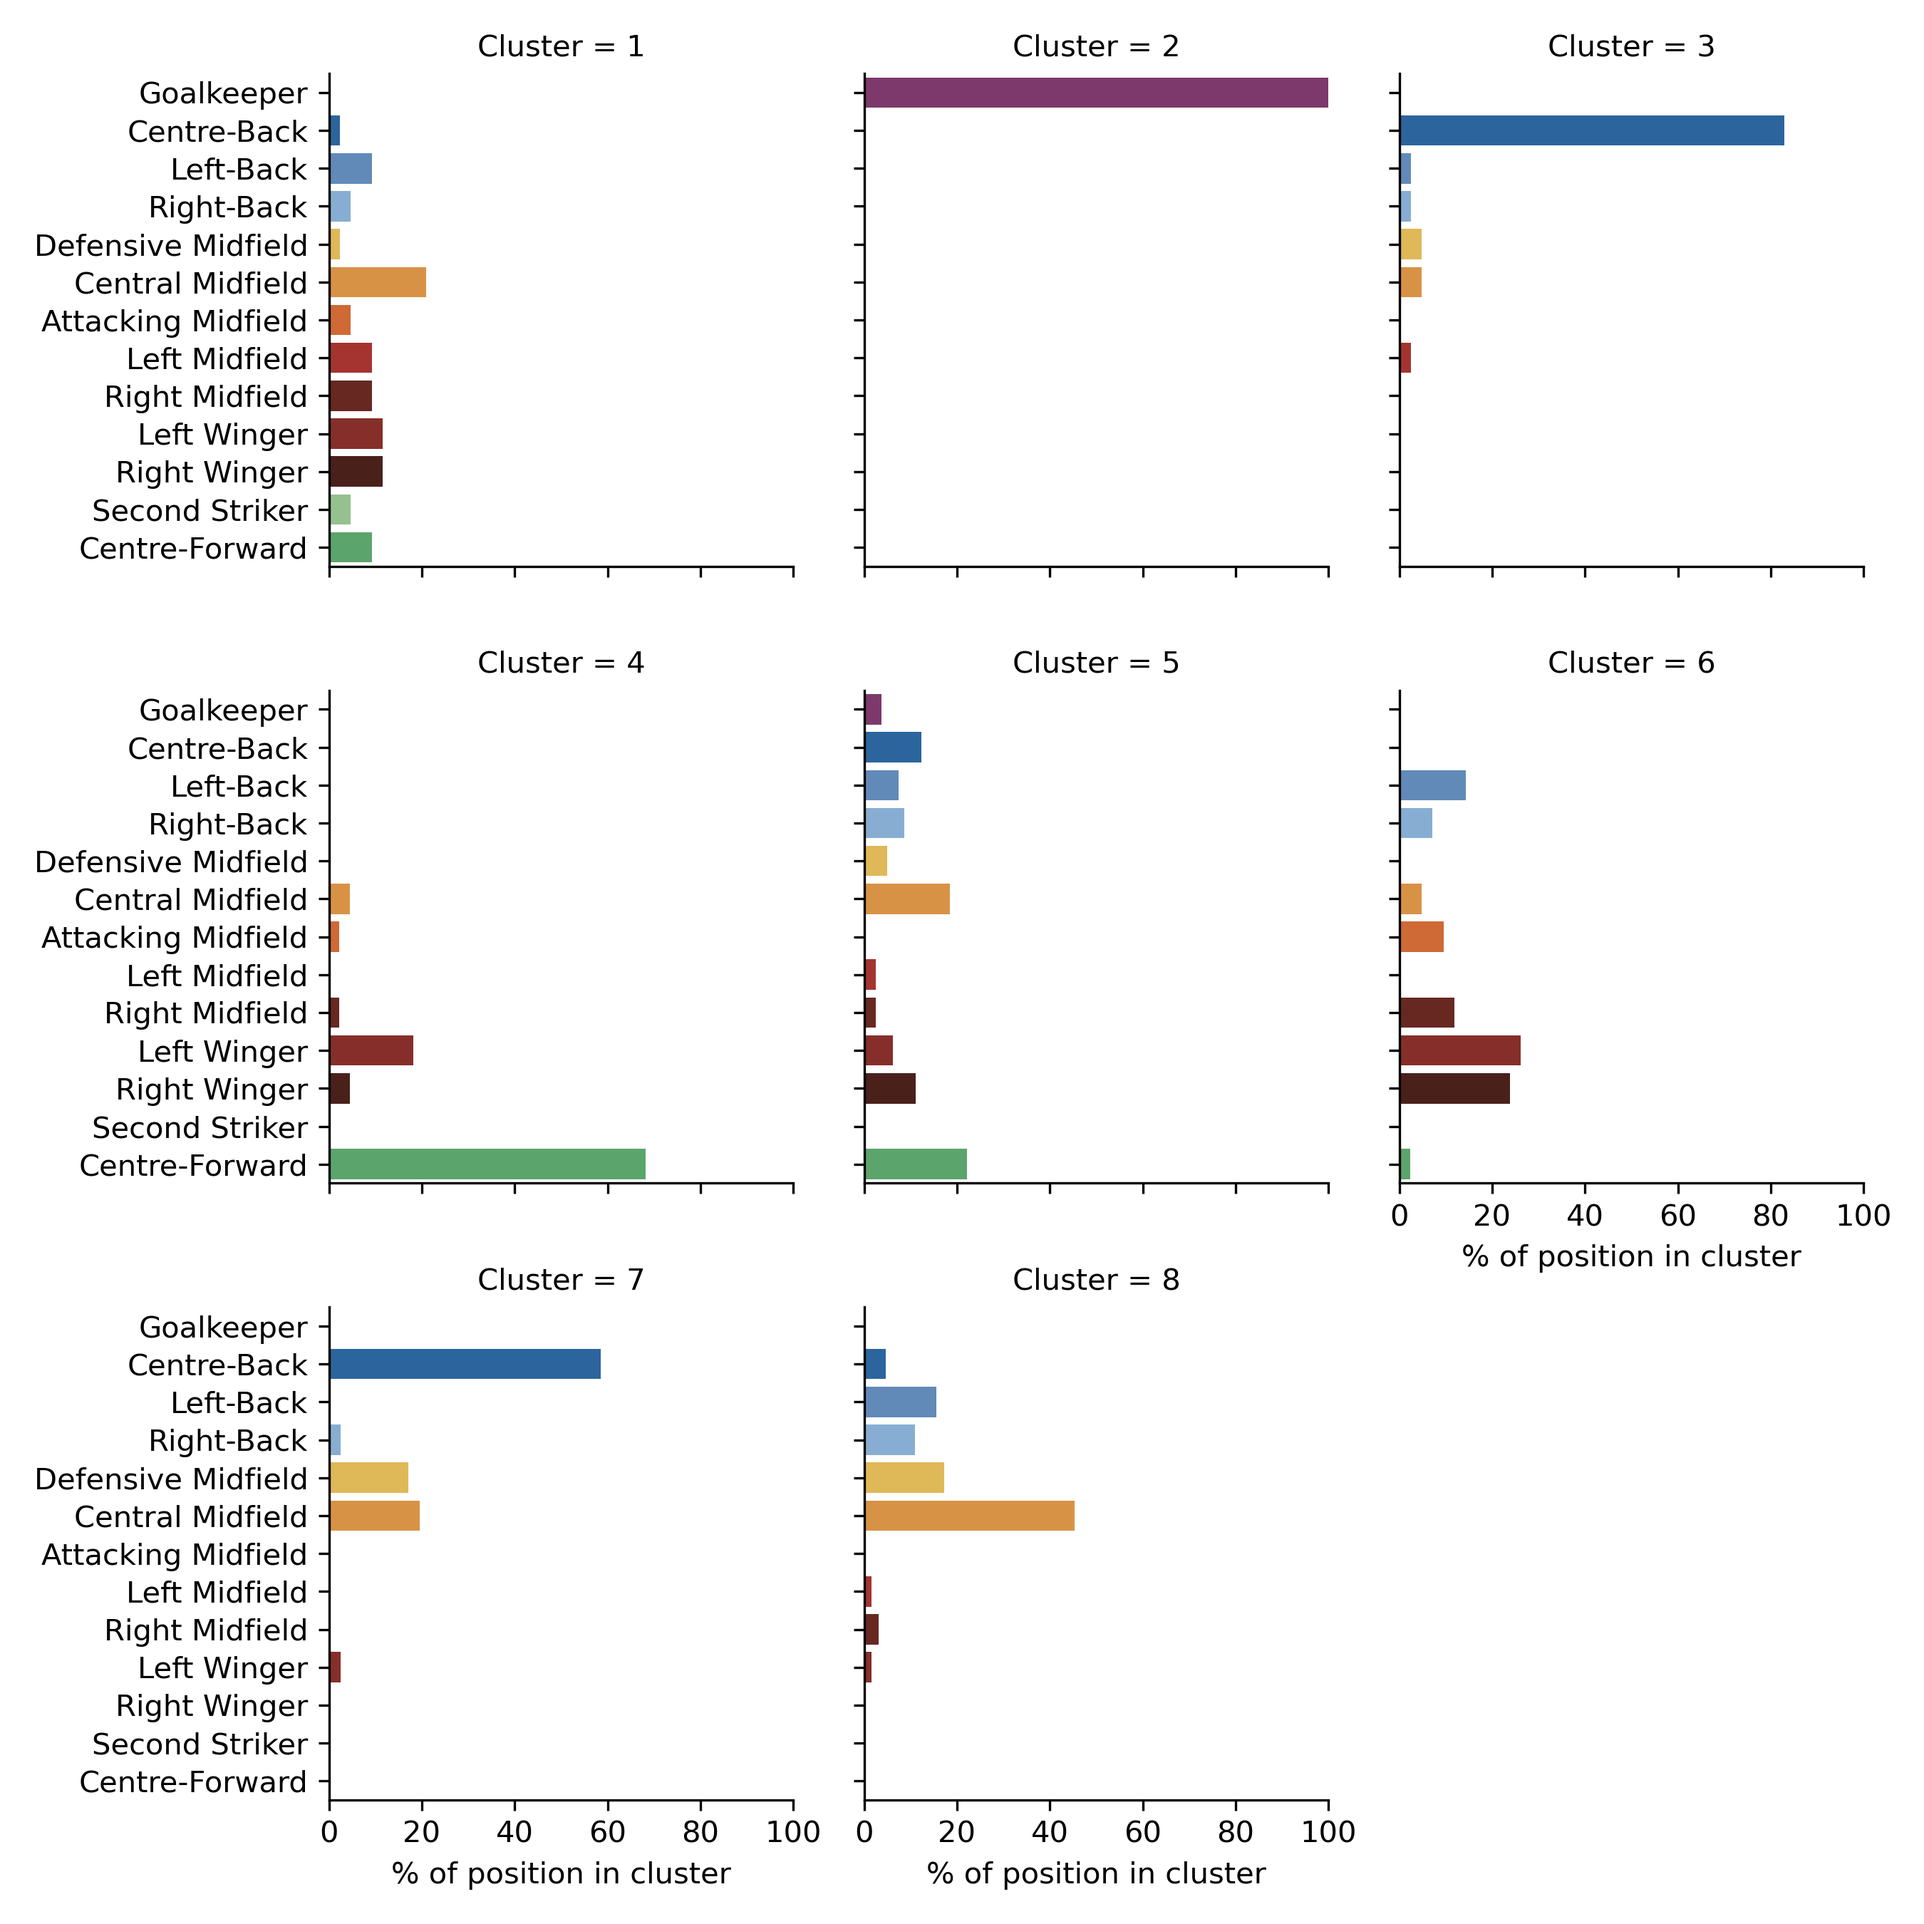
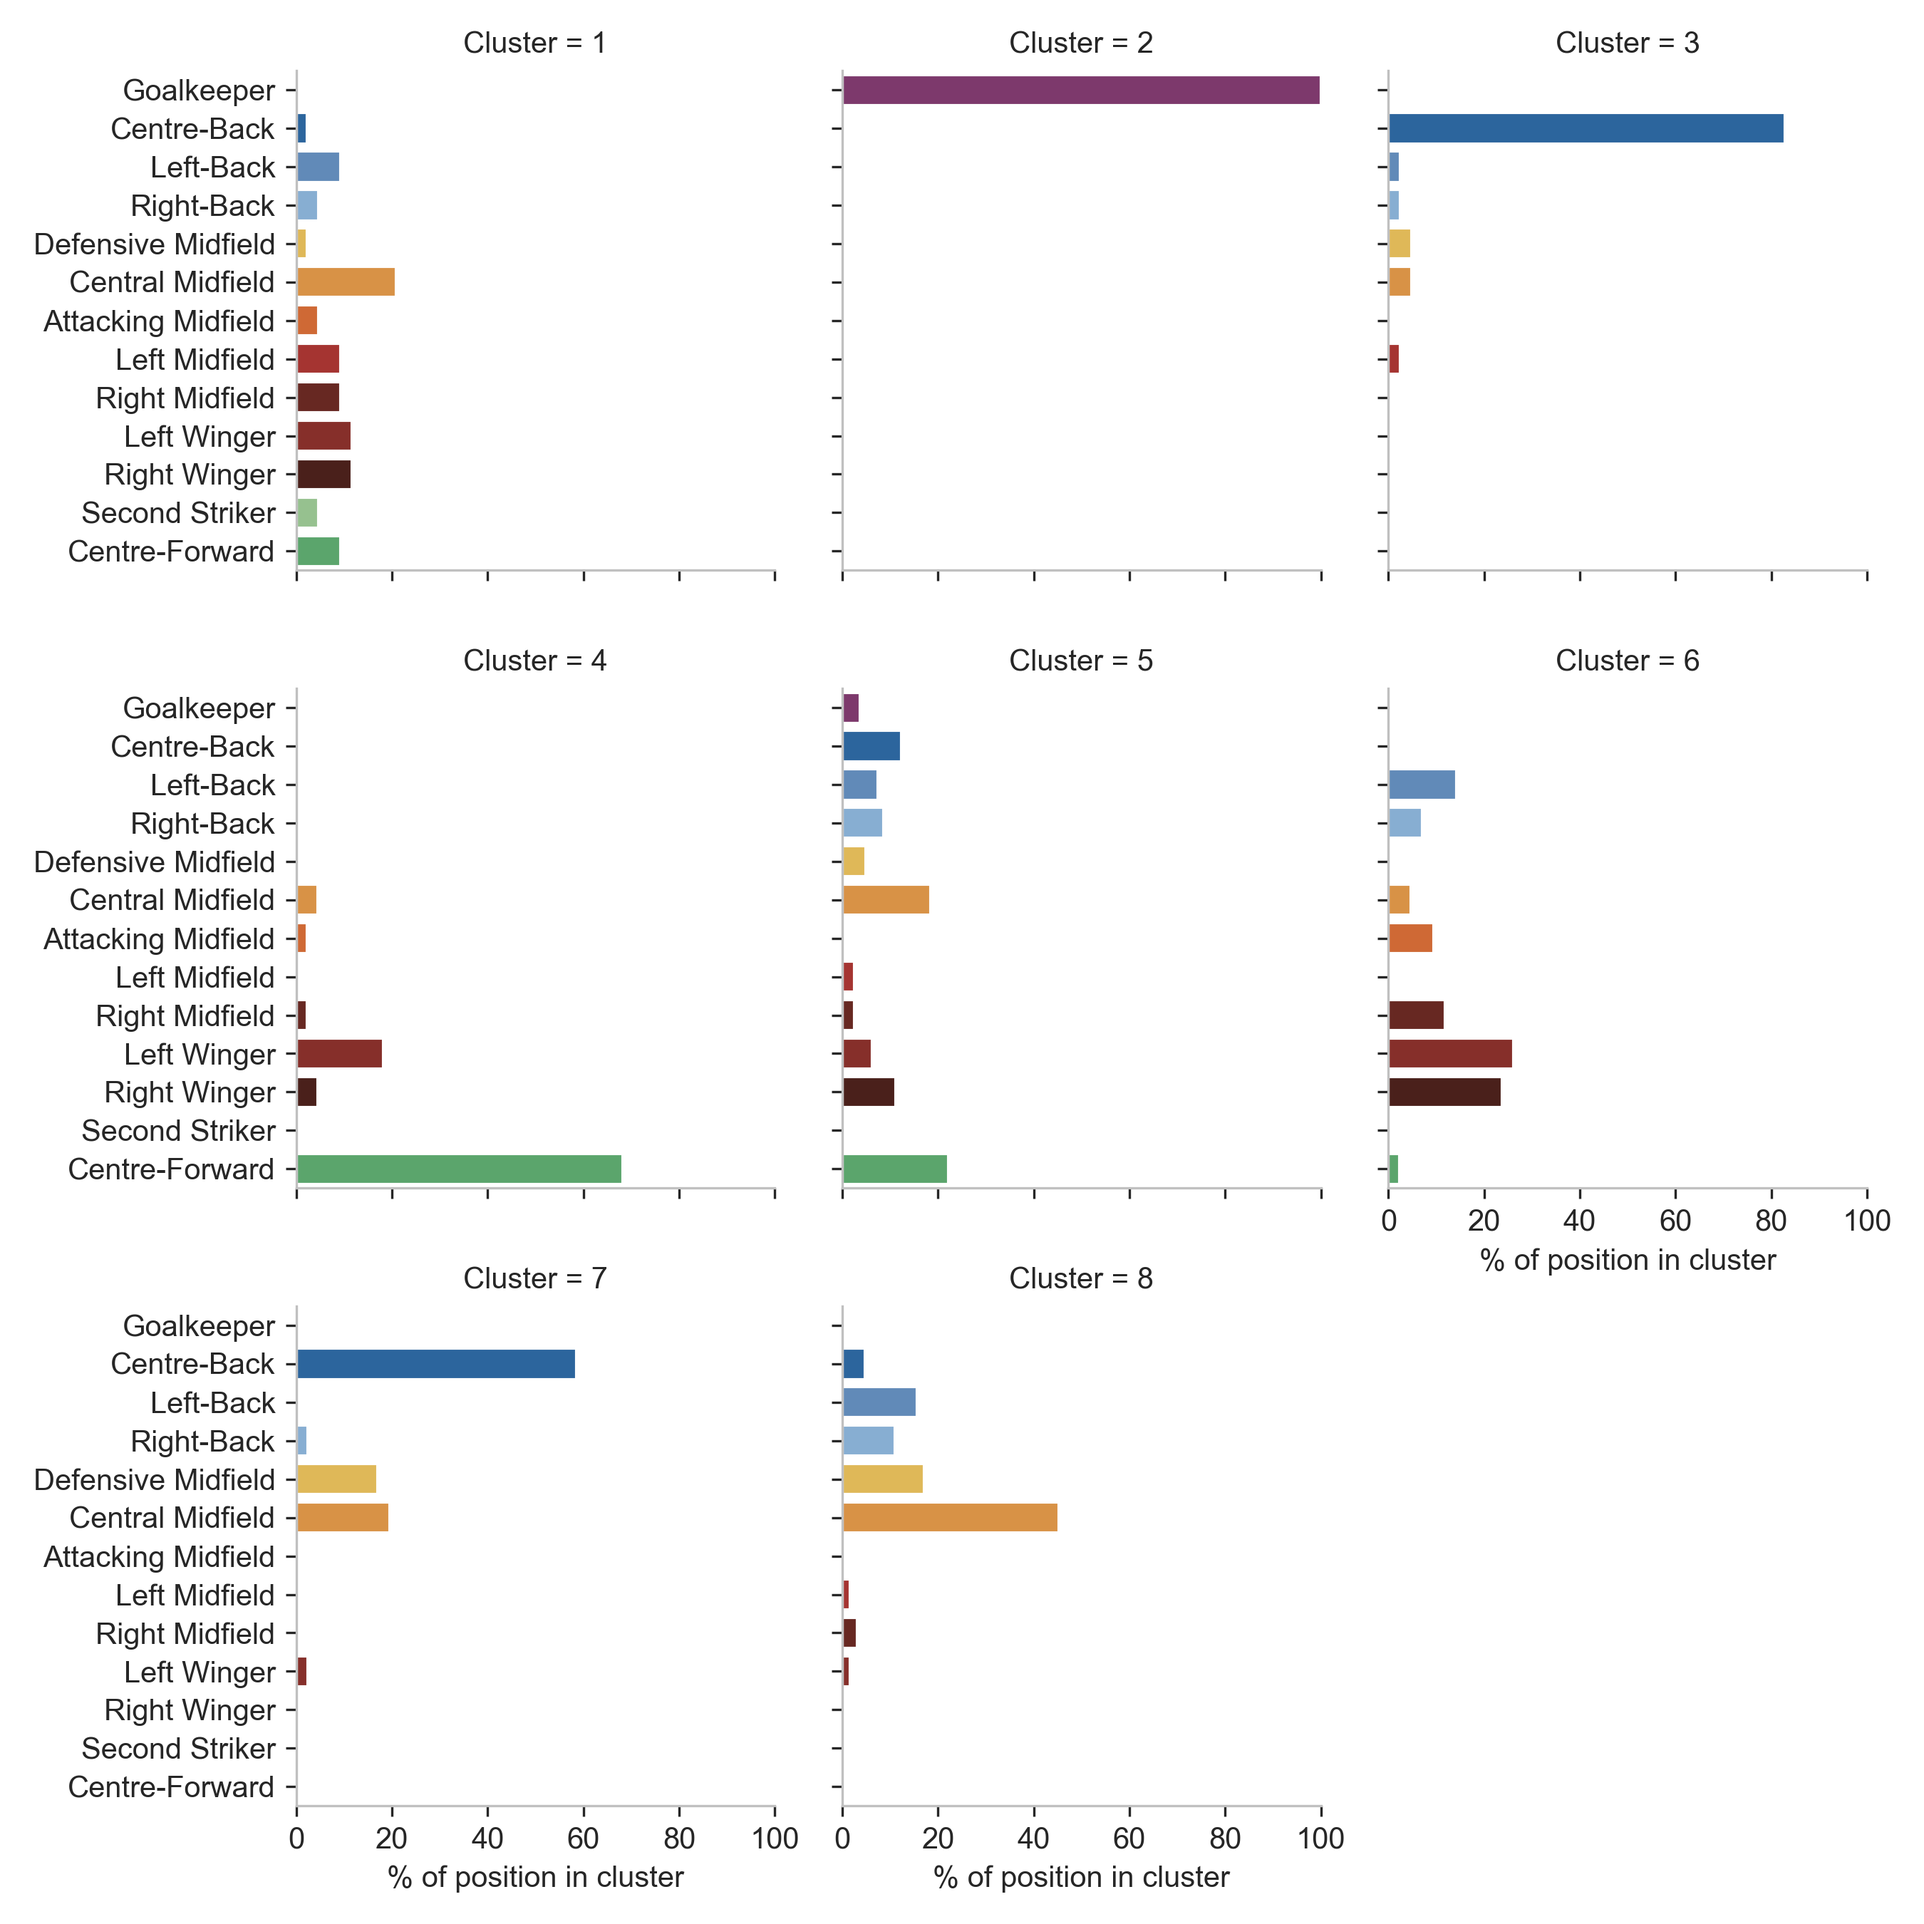
Updated plots with new font

diff --git a/Scripts/passingStyles.py b/Scripts/passingStyles.py
@@ -7,9 +7,21 @@ from passingStats import get_passing_data
 from pca import fit_pca
 from clustering import fit_player_cluster, interactive_player_clustering, \
     fit_team_cluster, team_passing_heatmap
+from matplotlib import font_manager
+from matplotlib import rcParams
 
 
 if __name__ == "__main__":
+    
+    # Find all fonts
+    font_files = font_manager.findSystemFonts(fontpaths="../Fonts")
+    
+    # Add all fonts
+    for font_file in font_files:
+        font_manager.fontManager.addfont(font_file)
+    
+    # Set Roboto as default font
+    rcParams["font.family"] = "Roboto"
     
     # Specify input
     league = "Allsvenskan"
@@ -48,7 +60,7 @@ if __name__ == "__main__":
 
     # Create a hierarchical clustering of teams
     team_linkage = fit_team_cluster(pca_team_data, team_passing, plot_iterative_tree=False)
-
+    
     # Create a hierarchical clustering of teams for a subset
     fit_team_cluster(pca_team_data, team_passing, plot_iterative_tree=True,
                      threshold=5)
